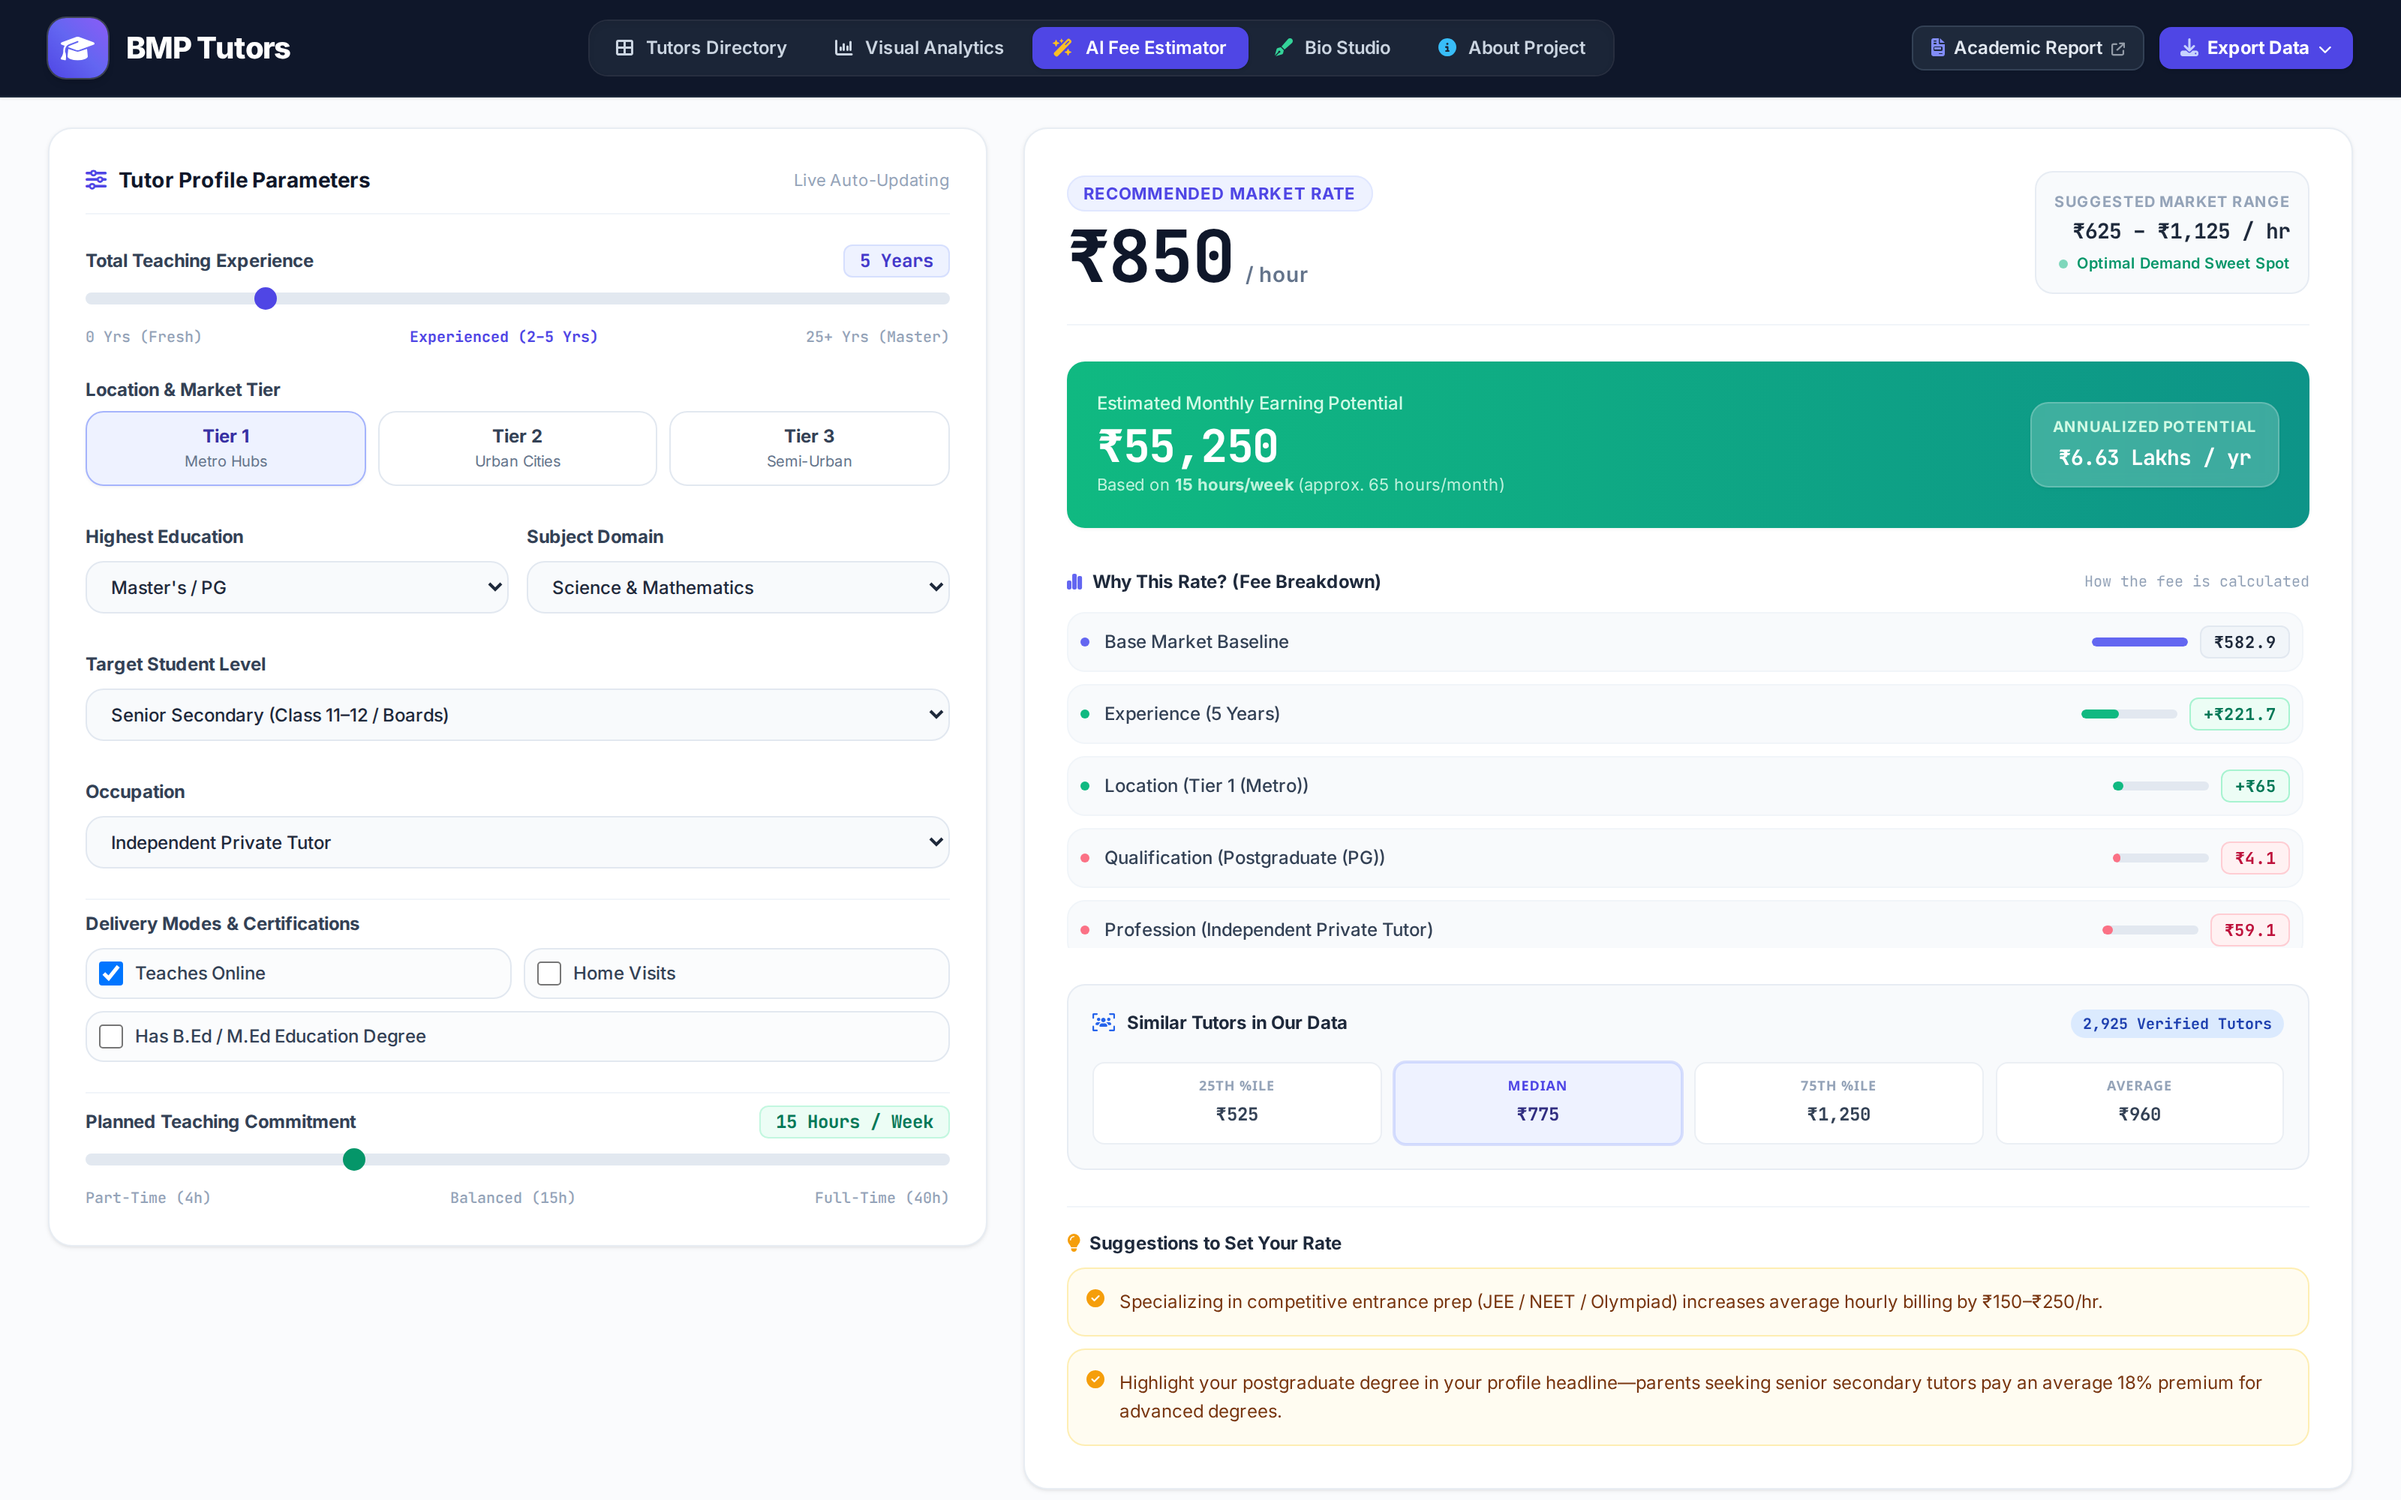
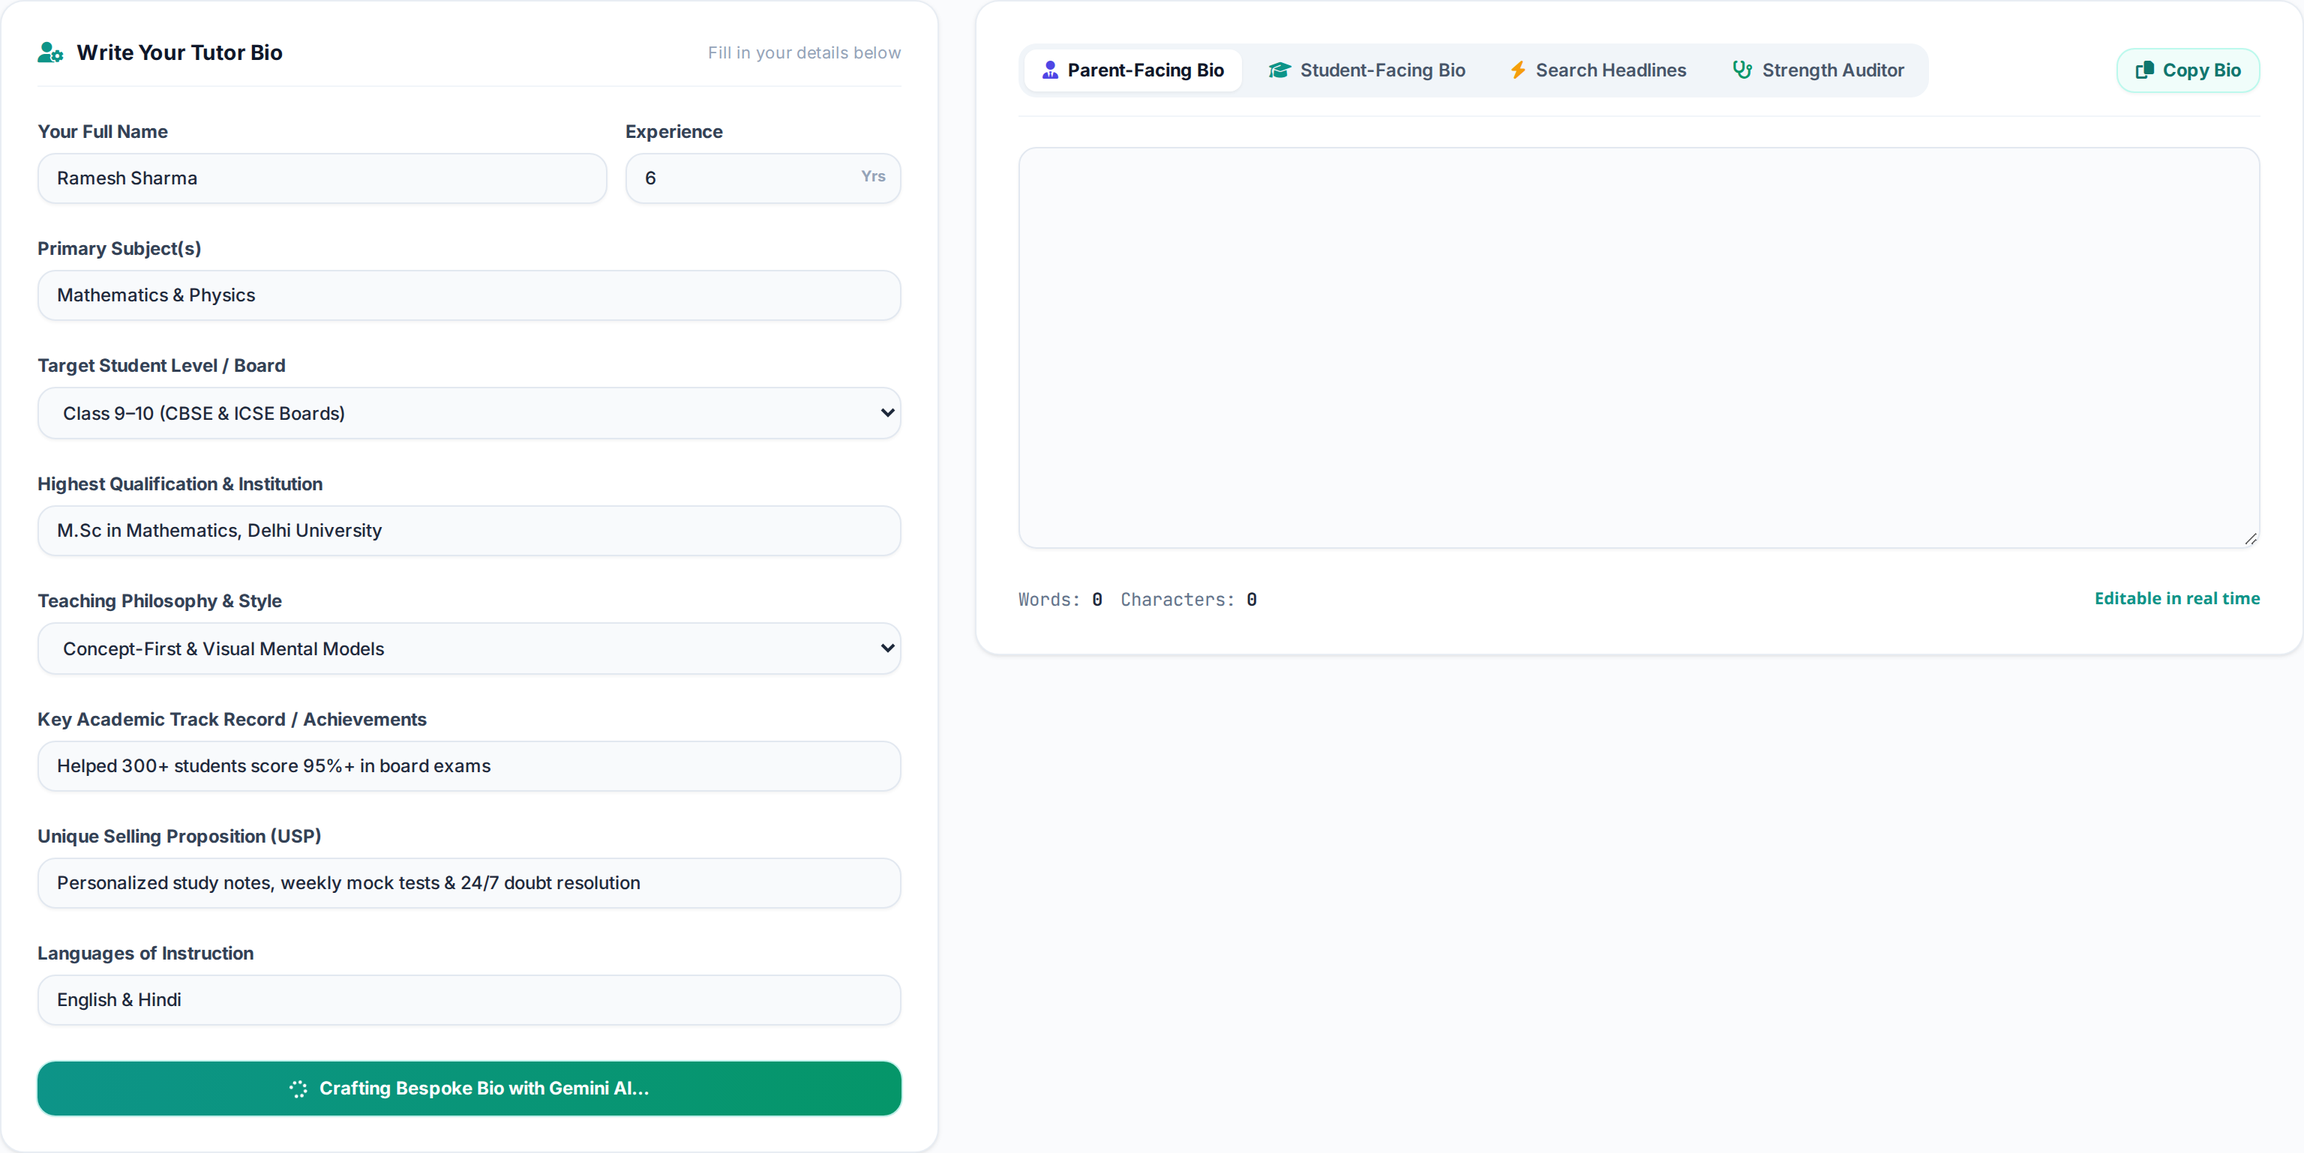
Remove Bio Quality Score card from Bio Studio UI and update screenshots

diff --git a/app/index.html b/app/index.html
@@ -1741,56 +1741,7 @@
               </div>
             </div>
 
-            <!-- Live Profile Strength Audit Card -->
-            <div class="p-5 rounded-xl bg-slate-50 border border-slate-200/80 space-y-4">
-              
-              <div class="flex flex-col sm:flex-row sm:items-center justify-between gap-3 border-b border-slate-200/60 pb-3">
-                <div class="flex items-center gap-3">
-                  <div id="bio-score-badge" class="w-12 h-12 rounded-xl bg-emerald-600 text-white font-mono font-black text-lg flex items-center justify-center shadow-xs">
-                    100
-                  </div>
-                  <div>
-                    <span class="text-[10px] uppercase font-bold text-slate-400 block tracking-wider">Bio Quality Score</span>
-                    <span id="bio-grade-label" class="text-xs font-bold text-emerald-700 block mt-0.5">Excellent (Ready to Use)</span>
-                  </div>
-                </div>
 
-                <div class="text-xs font-mono text-slate-500 sm:text-right">
-                  <span class="block">How It's Scored</span>
-                  <span class="text-[10px] text-emerald-600 font-bold font-sans">Ready for Marketplace</span>
-                </div>
-              </div>
-
-              <!-- 5-Point Health Checklist Grid -->
-              <div class="grid grid-cols-2 sm:grid-cols-3 gap-2 text-xs font-medium" id="bio-checklist-grid">
-                <div id="check-cred" class="p-2 rounded-lg bg-white border border-slate-200 flex items-center gap-2 text-emerald-700 shadow-2xs">
-                  <i class="fa-solid fa-circle-check text-emerald-500 shrink-0"></i>
-                  <span class="truncate">Qualifications</span>
-                </div>
-                <div id="check-exp" class="p-2 rounded-lg bg-white border border-slate-200 flex items-center gap-2 text-emerald-700 shadow-2xs">
-                  <i class="fa-solid fa-circle-check text-emerald-500 shrink-0"></i>
-                  <span class="truncate">Years Experience</span>
-                </div>
-                <div id="check-subj" class="p-2 rounded-lg bg-white border border-slate-200 flex items-center gap-2 text-emerald-700 shadow-2xs">
-                  <i class="fa-solid fa-circle-check text-emerald-500 shrink-0"></i>
-                  <span class="truncate">Subject & Level</span>
-                </div>
-                <div id="check-method" class="p-2 rounded-lg bg-white border border-slate-200 flex items-center gap-2 text-emerald-700 shadow-2xs">
-                  <i class="fa-solid fa-circle-check text-emerald-500 shrink-0"></i>
-                  <span class="truncate">Methodology / Style</span>
-                </div>
-                <div id="check-cta" class="p-2 rounded-lg bg-white border border-slate-200 flex items-center gap-2 text-emerald-700 sm:col-span-2 shadow-2xs">
-                  <i class="fa-solid fa-circle-check text-emerald-500 shrink-0"></i>
-                  <span class="truncate">Call-to-Action (Book Demo)</span>
-                </div>
-              </div>
-
-              <!-- Suggestions List -->
-              <div id="bio-suggestions-container" class="space-y-1.5 pt-1">
-                <!-- Dynamically populated via JS -->
-              </div>
-
-            </div>
 
           </div>
 
